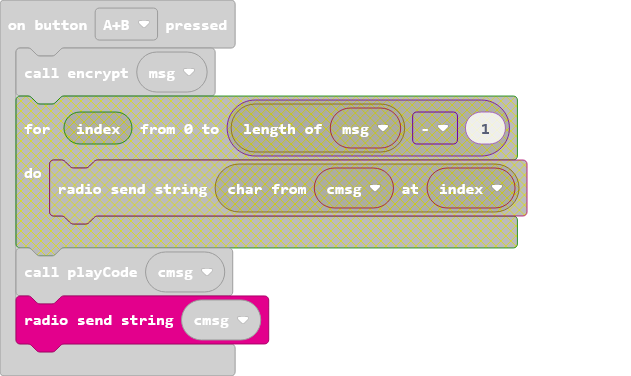
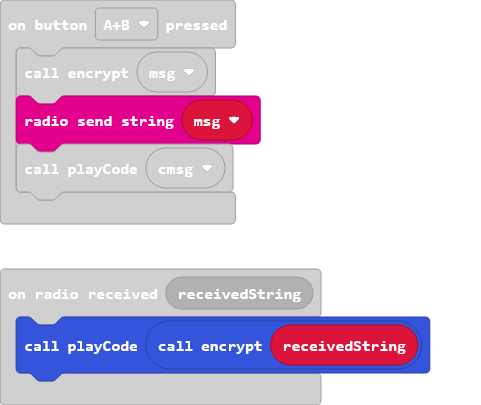
Update main.blocks, main.ts

diff --git a/main.ts b/main.ts
@@ -30,11 +30,11 @@ input.onButtonPressed(Button.A, function () {
 })
 input.onButtonPressed(Button.AB, function () {
     encrypt(msg)
-    radio.sendString("" + (cmsg))
+    radio.sendString("" + (msg))
     playCode(cmsg)
 })
 radio.onReceivedString(function (receivedString) {
-    playCode(receivedString)
+    playCode(encrypt(receivedString))
 })
 input.onButtonPressed(Button.B, function () {
     encrypt(msg)
